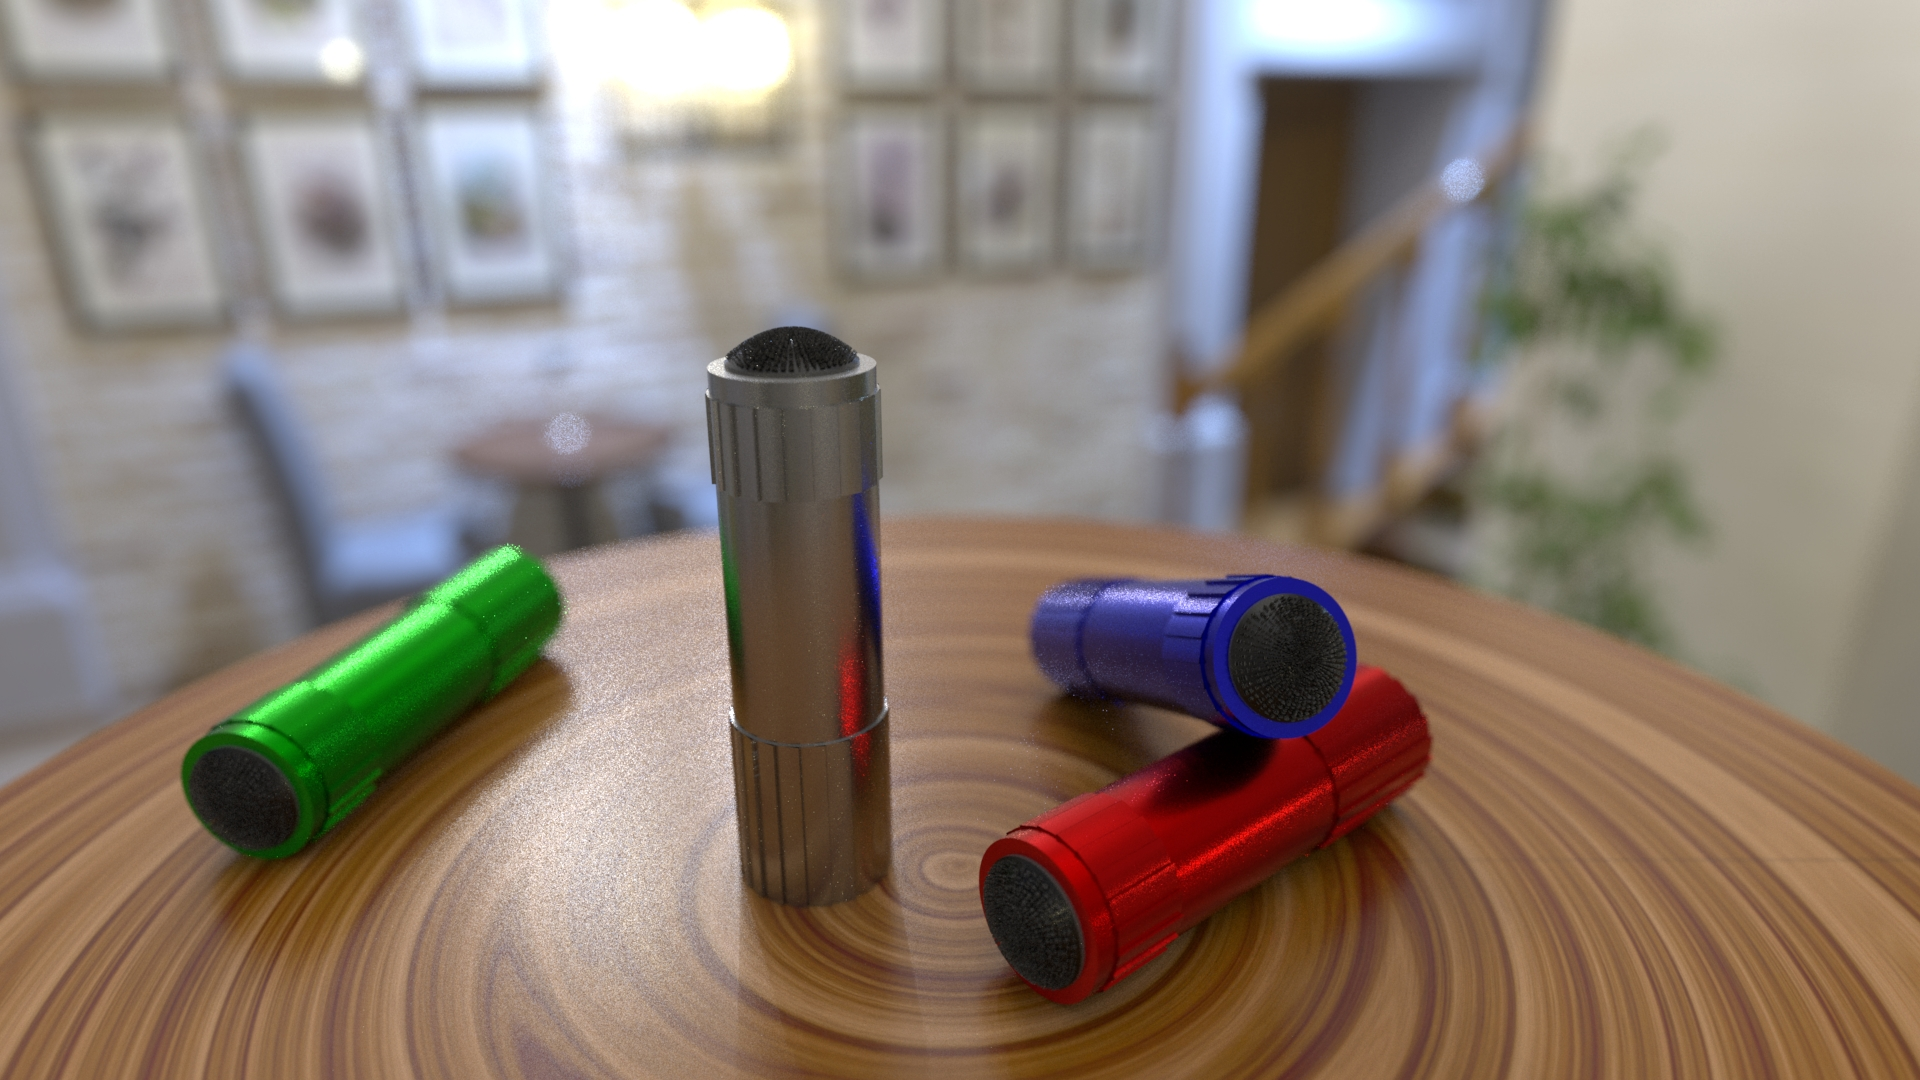
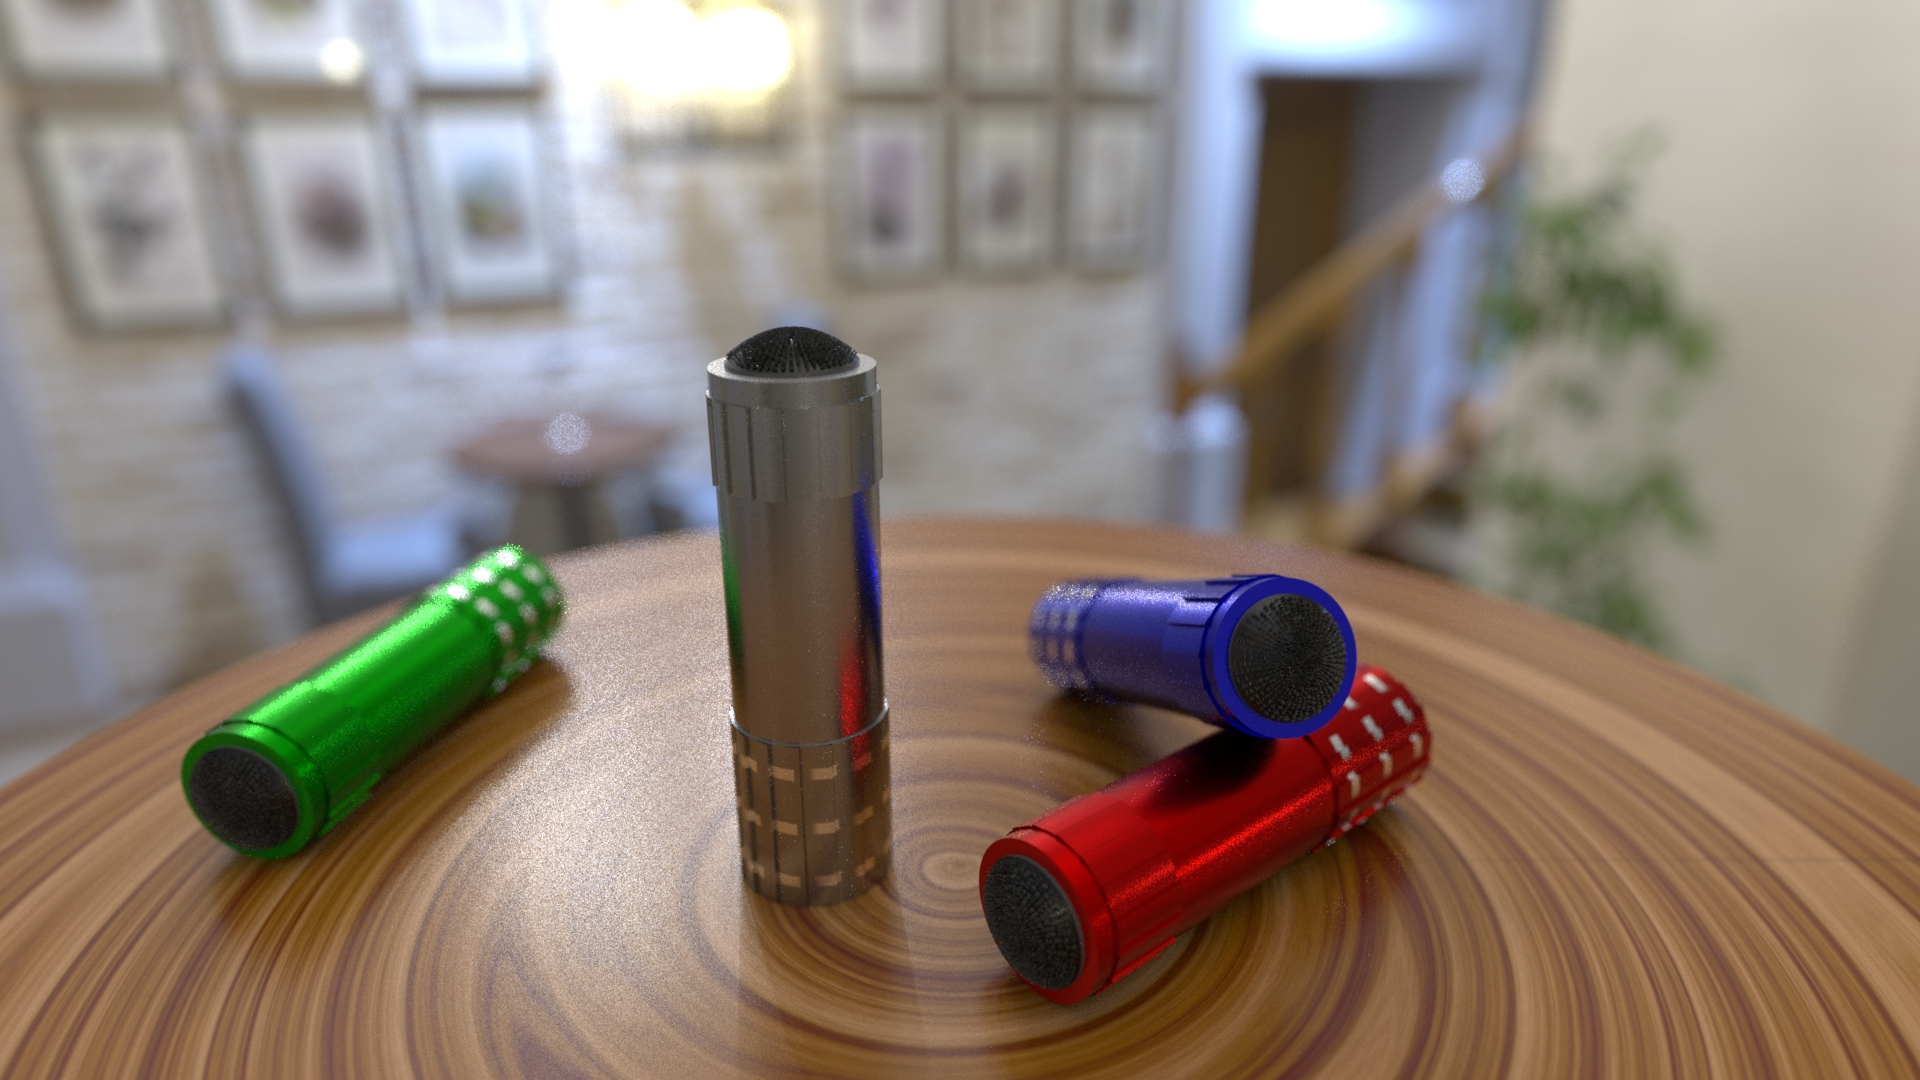
added dashed lines repeating patterns

diff --git a/src/torch.py b/src/torch.py
@@ -132,7 +132,7 @@ class Torch:
 
         ri.AttributeEnd()
 
-    def _draw_upper_ring_cap(self, translate_z):
+    def _draw_ring_cap(self, translate_z):
         ri = self.ri
 
         ri.AttributeBegin()
@@ -157,7 +157,7 @@ class Torch:
     def _draw_upper_ring(self):
         ri = self.ri
 
-        self._draw_upper_ring_cap(self.tr_z + .6)
+        self._draw_ring_cap(self.tr_z + .6)
 
         ri.AttributeBegin()
         ri.ArchiveRecord(ri.COMMENT, '-- Upper Ring --')
@@ -181,7 +181,7 @@ class Torch:
         ri.TransformBegin()
 
         ri.Rotate(self.rt_angle, self.rt_x, self.rt_y, self.rt_z)
-        ri.Translate(self.tr_x, self.tr_y, self.tr_z - .3) # z = -3.7
+        ri.Translate(self.tr_x, self.tr_y, self.tr_z - .3)
         ri.Cylinder(1, .9, 2, self.theta_max_angle)
 
         ri.TransformEnd()
@@ -195,31 +195,15 @@ class Torch:
         ri.ArchiveRecord(ri.COMMENT, '-- Main Body --')
         ri.Attribute( 'identifier', { 'name': 'main-body' })
 
-        # ri.Attribute('displacementbound', {
-        #     'sphere': [1],
-        #     'coordinatesystem': ['object']
-        # })
-
-        ri.Pattern('body_shaft', 'shaft', {
-            # 'float repeatU': [10],
-            # 'float repeatV': [3],
-            # 'float radius': [0.2],
-            'color surfaceColor': self.surface_color,
-            # 'color diskColor': [1, 1, 1]
-        })
-        # ri.Displace('PxrDisplace', 'myDisp', {
-        #     'float dispAmount': [12],
-        #     'reference float dispScalar': ['diskTx:resultF']
-        # })
         ri.Bxdf('PxrDisney', 'bxdf_label', {
-            'reference color baseColor': ['shaft:outColor'],
+            'color baseColor': self.surface_color,
             "float metallic" : [1]
         })
 
         ri.TransformBegin()
 
         ri.Rotate(self.rt_angle, self.rt_x, self.rt_y, self.rt_z)
-        ri.Translate(self.tr_x, self.tr_y, self.tr_z - .6) # z = -4
+        ri.Translate(self.tr_x, self.tr_y, self.tr_z - .6)
         ri.Cylinder(1, .9, 6, self.theta_max_angle)
 
         ri.TransformEnd()
@@ -229,7 +213,7 @@ class Torch:
     def _draw_lower_body(self):
         ri = self.ri
 
-        self._draw_upper_ring_cap(self.tr_z + 4.9) # 1.5
+        self._draw_ring_cap(self.tr_z + 4.9)
 
         ri.AttributeBegin()
         ri.ArchiveRecord(ri.COMMENT, '-- Lower Body --')
@@ -241,21 +225,22 @@ class Torch:
         })
 
         ri.Pattern('ring_displace', 'lowerRingTx')
-        # ri.Pattern('body_lower', 'torchBody', {
-        #     'float repeatU': [10],
-        #     'float repeatV': [3],
-        #     'float fuzz': [0],
-        #     'float radius': [0.2],
-        #     'color surfaceColor': self.surface_color,
-        #     'color diskColor': [1, 1, 1]
-        # })
+        ri.Pattern('body_lower', 'dashLines', {
+            'color surfaceColor': self.surface_color,
+            'color dashColor': [1, 1, 1],
+            'float sWidth': [.7],
+            'float tWidth': [.2],
+            'float sRepeat': [12],
+            'float tRepeat': [3],
+        })
         ri.Displace('PxrDisplace', 'myDisp', {
             'float dispAmount': [.1],
             'reference float dispScalar': ['lowerRingTx:resultF']
         })
         ri.Bxdf('PxrDisney', 'bxdf_label', {
-            'color baseColor': self.surface_color,#['torchBody:outColor'],
-            'float metallic': [1]
+            'reference color baseColor': ['dashLines:outColor'],
+            'float metallic': [1],
+
         })
 
         ri.TransformBegin()

diff --git a/src/renderer.py b/src/renderer.py
@@ -4,7 +4,7 @@ from __future__ import print_function
 
 from src.shader_lib import ShaderLib
 from src.torch import Torch
-from src.candle_holder import CandleHolder
+# from src.candle_holder import CandleHolder
 from src.table import Table
 
 class Renderer:
@@ -29,7 +29,7 @@ class Renderer:
         self.shaderLib.load_multiple([
             'button_bumps',
             'ring_displace',
-            # 'body_lower',
+            'body_lower',
             'table_shader'
         ])
 
@@ -160,7 +160,7 @@ class Renderer:
         redTorch =   Torch(ri, [50, 0, 1, 0],  [1, -2.9, 0], [.5, 0, 0])
         greenTorch = Torch(ri, [10, 0, 1, 0],  [-10, -2.9, 0], [0, 0.3, 0])
         blueTorch =  Torch(ri, [33, 1, -1, 1], [4, -1.55, 0], [0, 0, 0.5])
-        candleHolder = CandleHolder(ri)
+        # candleHolder = CandleHolder(ri)
         table = Table(ri)
 
         originalTorch.draw()

diff --git a/src/cli.py b/src/cli.py
@@ -9,7 +9,7 @@ def cli_args():
     parser.add_argument('--pixelvar',    '-p',
                         nargs='?', const=0.01,            default=0.01,           type=float, help='pixel variance default 0.01')
     parser.add_argument('--fov',         '-fv',
-                        nargs='?', const=50.0,            default=90.0,           type=float, help='projection fov default 50.0')
+                        nargs='?', const=50.0,            default=50.0,           type=float, help='projection fov default 50.0')
     parser.add_argument('--width',       '-wd',
                         nargs='?', const=1920,            default=1920,           type=int,   help='width of image default 1920')
     parser.add_argument('--height',      '-ht',
